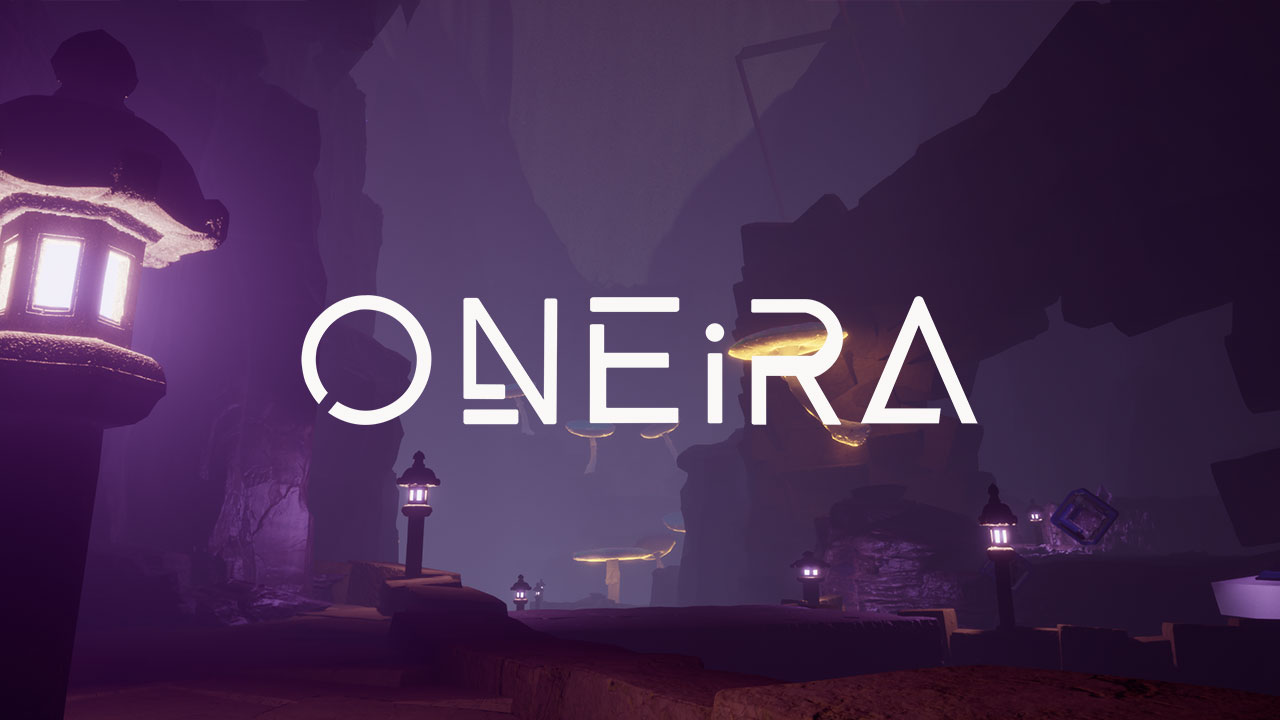
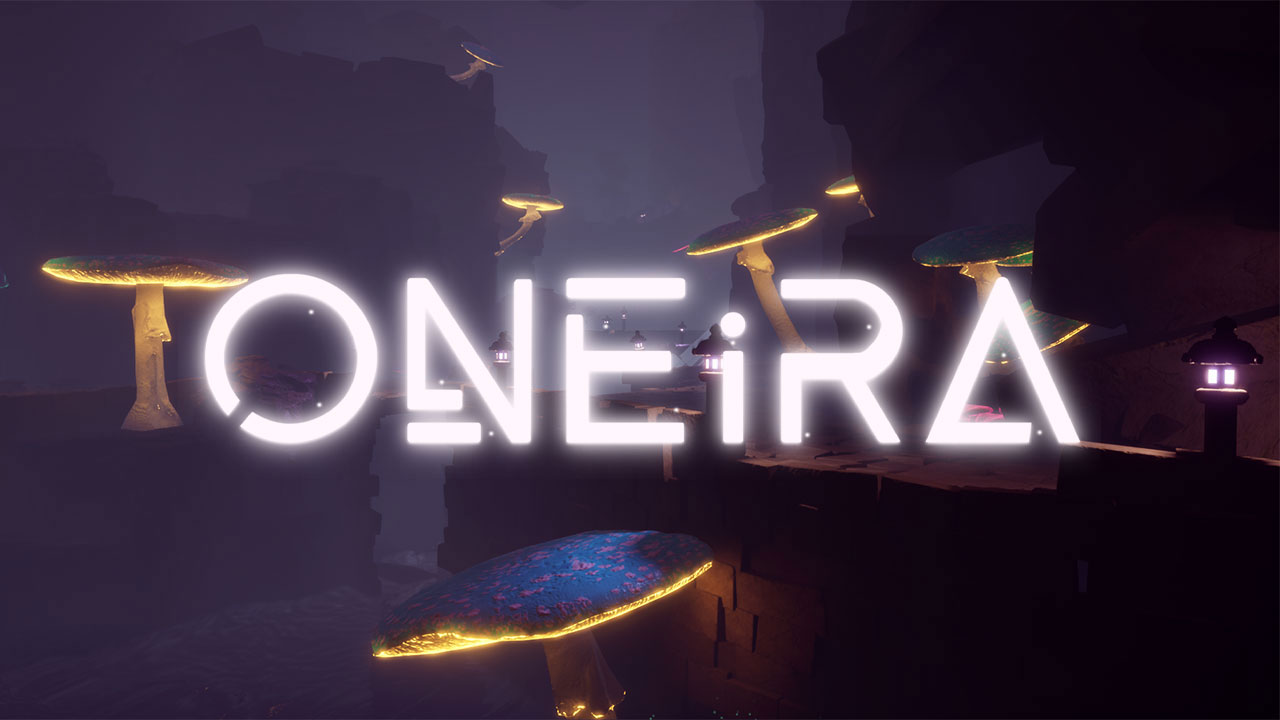
Tweaks

diff --git a/_includes/header_dml.html b/_includes/header_dml.html
@@ -10,7 +10,7 @@
 
         <!-- Carousel -->
         <div class="carousel-inner h-100" style="background-color: #3D144E; border-radius: 20px">
-            <div class="carousel-item active h-100" style="background-image: url(/assets/img/oneira/header.jpg); background-position: center; border-radius: 20px">
+            <div class="carousel-item active h-100" style="background-image: url(/assets/img/highlights/highlight_3.jpg); background-position: center; border-radius: 20px">
                 <div class="col d-flex items-align-center mt-auto position-absolute" style="bottom: 0; padding: 50px">
                     <div class="col-8 d-flex p-0 align-items-center justify-content-start">
                         <h2 class="m-0 fw-3 fw-bold" style="white-space: nowrap; overflow: hidden; text-overflow: ellipsis">INTRODUCING ONEiRA: OUR DEBUT GAME</h2>
